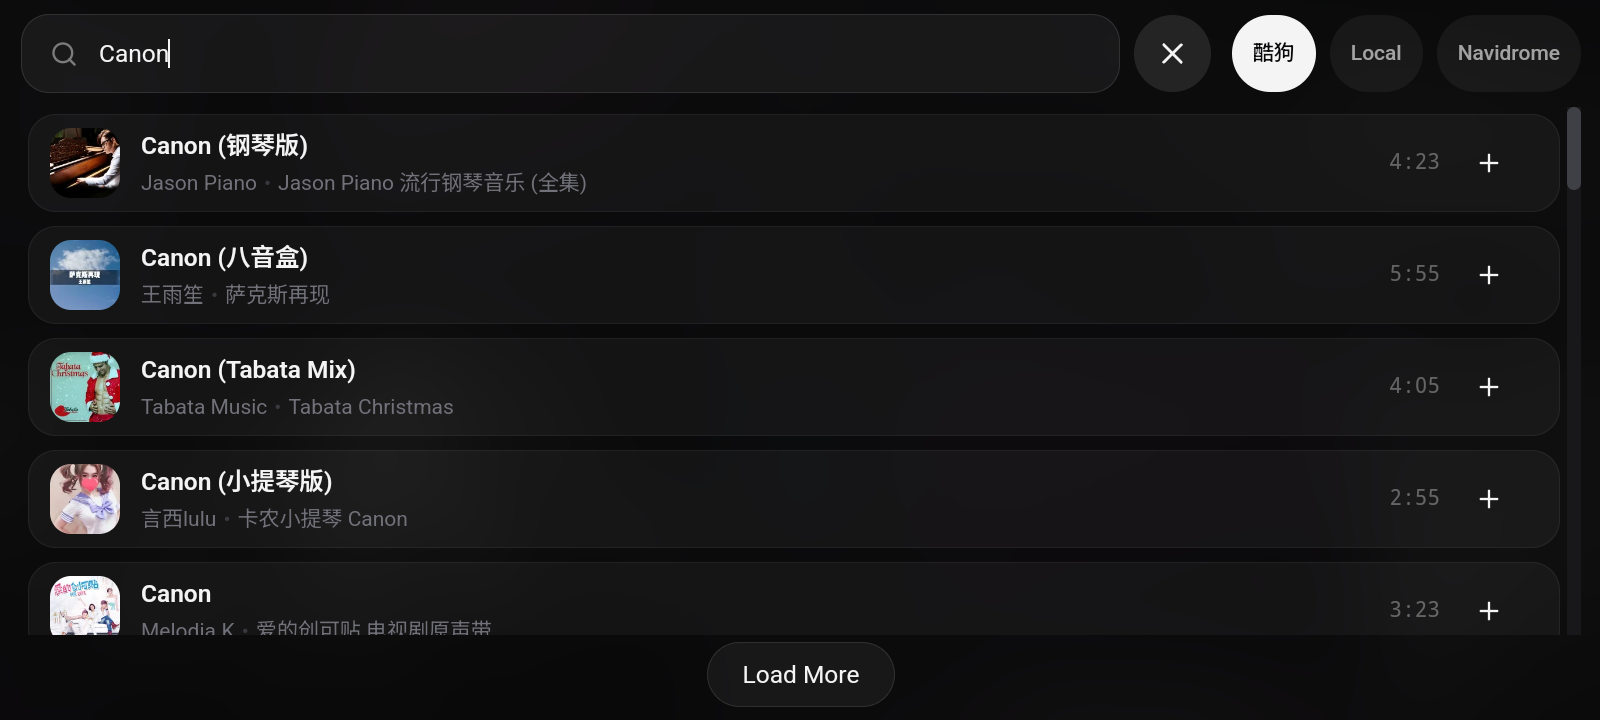
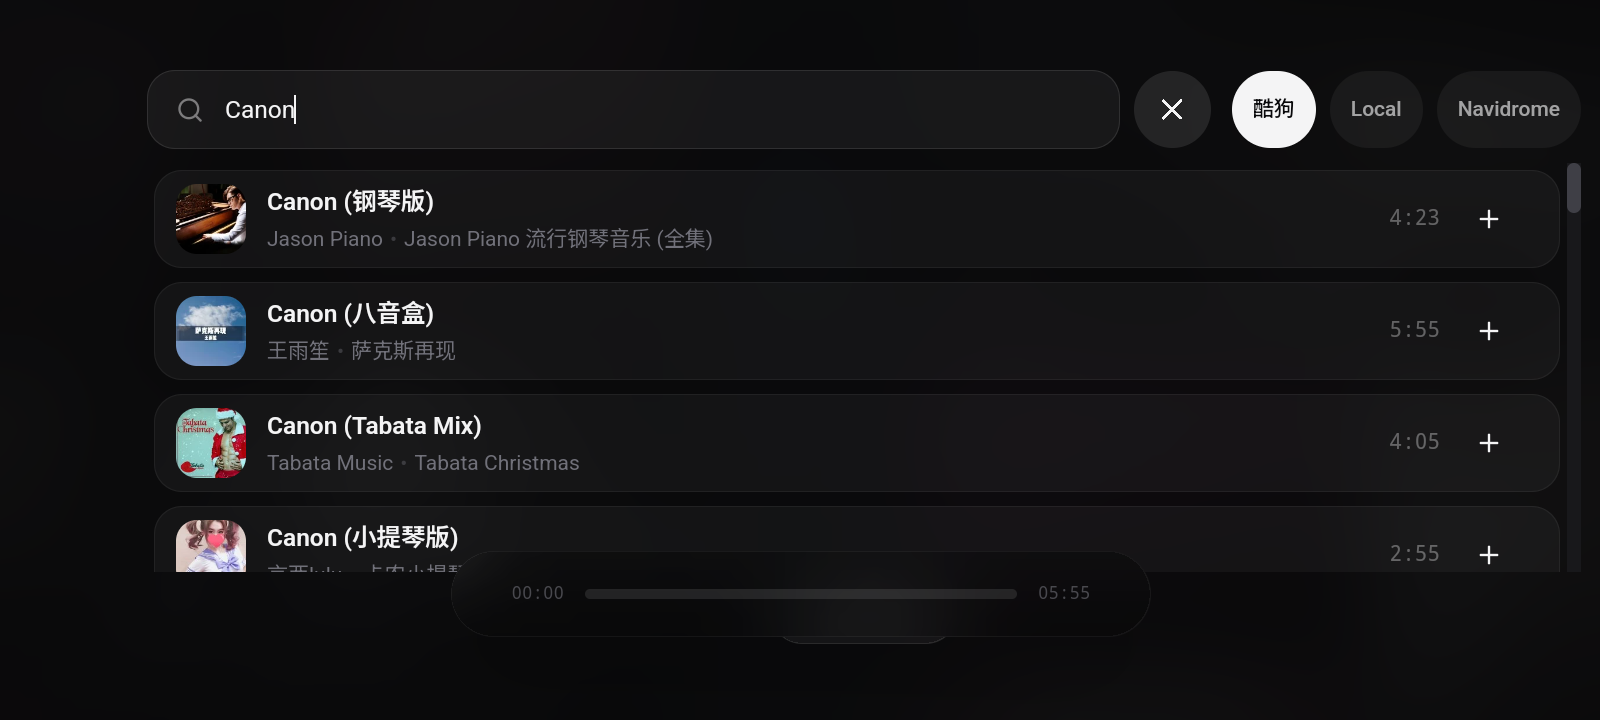
fix(android): extend scenes to screen edges and improve media notifications

diff --git a/src/components/ponder/PagePonderTouchButton.tsx b/src/components/ponder/PagePonderTouchButton.tsx
@@ -96,8 +96,12 @@ const PagePonderTouchButton: React.FC<PagePonderTouchButtonProps> = ({ theme, is
                 return;
             }
 
-            const inHotspot = event.clientY <= HOTSPOT_SIZE_PX
-                && event.clientX >= window.innerWidth - HOTSPOT_SIZE_PX;
+            const rootStyle = getComputedStyle(document.documentElement);
+            const safeTop = parseFloat(rootStyle.getPropertyValue('--folia-native-safe-top')) || 0;
+            const safeRight = parseFloat(rootStyle.getPropertyValue('--folia-native-safe-right')) || 0;
+            const inHotspot = event.clientY >= safeTop && event.clientY <= safeTop + HOTSPOT_SIZE_PX
+                && event.clientX >= window.innerWidth - safeRight - HOTSPOT_SIZE_PX
+                && event.clientX <= window.innerWidth - safeRight;
             if (!inHotspot) {
                 // 手指落在别处，上一面没用掉的旗就作废 —— 免得它留到下一次真正的点击上。
                 suppressNextClickRef.current = false;
@@ -132,7 +136,7 @@ const PagePonderTouchButton: React.FC<PagePonderTouchButtonProps> = ({ theme, is
             aria-label={t('ponder.openPage')}
             // 收起来之后不可点：留着可点的话，右上角会变成一块看不见却能按的地方。
             // 出来时淡入、从略小长到位；关了微动效就只淡入淡出。
-            className={`fixed right-5 top-5 z-[190] h-12 w-12 rounded-full transition-[opacity,transform] active:scale-95 ${
+            className={`android-ponder-button fixed right-5 top-5 z-[190] h-12 w-12 rounded-full transition-[opacity,transform] active:scale-95 ${
                 isRevealed ? 'pd-t-enter opacity-100' : `pd-t-base pointer-events-none opacity-0 ${calm ? '' : 'scale-[0.94]'}`
             }`}
             style={{ ...ponderLayerTokens(isDaylight, theme), ...ponderMotionTokens(calm) }}

diff --git a/src/index.css b/src/index.css
@@ -455,3 +455,29 @@ html[data-android="true"], html[data-android="true"] body {
 html[data-android="true"] * {
   overscroll-behavior: none;
 }
+
+/* Let the scene bleed to every edge; reserve insets only for controls, never for the root canvas. */
+html[data-android='true'] .android-player-controls {
+    margin-bottom: max(0px, calc(var(--folia-native-safe-bottom, 0px) - 16px));
+    width: calc(100vw - 32px - var(--folia-native-safe-left, 0px) - var(--folia-native-safe-right, 0px));
+}
+html[data-android='true'] .android-player-back,
+html[data-android='true'] .lattice-back {
+    top: calc(12px + var(--folia-native-safe-top, 0px));
+    left: calc(16px + var(--folia-native-safe-left, 0px));
+}
+html[data-android='true'] .bravais-seam-content {
+    top: var(--folia-native-safe-top, 0px);
+    bottom: var(--folia-native-safe-bottom, 0px);
+}
+html[data-android='true'] .search-workspace {
+    padding-top: calc(12px + var(--folia-native-safe-top, 0px));
+    padding-bottom: calc(12px + var(--folia-native-safe-bottom, 0px));
+    padding-left: calc(12px + var(--folia-native-safe-left, 0px));
+    padding-right: calc(12px + var(--folia-native-safe-right, 0px));
+}
+
+html[data-android='true'] .android-ponder-button {
+    top: calc(20px + var(--folia-native-safe-top, 0px));
+    right: calc(20px + var(--folia-native-safe-right, 0px));
+}

diff --git a/src/components/visualizer/VisualizerShell.tsx b/src/components/visualizer/VisualizerShell.tsx
@@ -235,7 +235,7 @@ const VisualizerShell = forwardRef<HTMLDivElement, VisualizerShellProps>(({
                         event.stopPropagation();
                         resolvedOnBack();
                     }}
-                    className="absolute top-6 left-6 z-30 h-10 w-10 rounded-full flex items-center justify-center transition-colors backdrop-blur-md bg-black/20 hover:bg-white/10 text-white/60 pointer-events-auto"
+                    className="android-player-back absolute top-6 left-6 z-30 h-10 w-10 rounded-full flex items-center justify-center transition-colors backdrop-blur-md bg-black/20 hover:bg-white/10 text-white/60 pointer-events-auto"
                     style={{ pointerEvents: isBackButtonVisible ? 'auto' : 'none' }}
                 >
                     <ChevronLeft size={20} />

diff --git a/src/components/FloatingPlayerControls.tsx b/src/components/FloatingPlayerControls.tsx
@@ -331,7 +331,7 @@ const FloatingPlayerControls: React.FC<FloatingPlayerControlsProps> = ({
                 所以挂在这一层不会干扰居中。
             */}
             <motion.div
-                className={`absolute left-1/2 -translate-x-1/2 z-60 w-full flex justify-center pointer-events-none
+                className={`android-player-controls absolute left-1/2 -translate-x-1/2 z-60 w-full flex justify-center pointer-events-none
                     ${currentView === 'home'
                         ? 'max-w-[calc(100vw-120px)] md:max-w-[min(calc(32rem_+_var(--folium-player-bar-extra,0px)),calc(100vw-120px))]'
                         : 'max-w-[min(calc(32rem_+_var(--folium-player-bar-extra,0px)),100vw)] px-4'}`}

diff --git a/index.html b/index.html
@@ -2,7 +2,7 @@
 <html lang="en">
   <head>
     <meta charset="UTF-8" />
-    <meta name="viewport" content="width=device-width, initial-scale=1.0" />
+    <meta name="viewport" content="width=device-width, initial-scale=1.0, viewport-fit=cover" />
     <meta name="referrer" content="no-referrer" />
     <meta name="description" content="一个动态歌词播放器，支持 AI 主题生成" />
     <meta name="theme-color" content="#09090b" />

diff --git a/packaging/android/android/app/src/main/java/top/izuna/folia/android/FoliaPlaybackService.java b/packaging/android/android/app/src/main/java/top/izuna/folia/android/FoliaPlaybackService.java
@@ -12,6 +12,8 @@ import android.content.IntentFilter;
 import android.graphics.Bitmap;
 import android.graphics.BitmapFactory;
 import android.media.AudioManager;
+import android.media.AudioAttributes;
+import android.util.Log;
 import android.media.MediaMetadata;
 import android.media.session.MediaSession;
 import android.media.session.PlaybackState;
@@ -26,7 +28,7 @@ import org.json.JSONObject;
 public class FoliaPlaybackService extends Service {
     private static final int NOTIFICATION = 731;
     private static final String CHANNEL = "folia-playback";
-    private static boolean running;
+    private static volatile boolean running;
     private MediaSession session;
     private PowerManager.WakeLock wakeLock;
     private boolean playing;
@@ -50,6 +52,9 @@ public class FoliaPlaybackService extends Service {
         wakeLock = ((PowerManager) getSystemService(POWER_SERVICE)).newWakeLock(PowerManager.PARTIAL_WAKE_LOCK, "Folia:Playback");
         wakeLock.setReferenceCounted(false);
         session = new MediaSession(this, "Folia");
+        session.setFlags(MediaSession.FLAG_HANDLES_MEDIA_BUTTONS | MediaSession.FLAG_HANDLES_TRANSPORT_CONTROLS);
+        session.setPlaybackToLocal(new AudioAttributes.Builder().setUsage(AudioAttributes.USAGE_MEDIA)
+            .setContentType(AudioAttributes.CONTENT_TYPE_MUSIC).build());
         session.setSessionActivity(openApp());
         session.setCallback(new MediaSession.Callback() {
             @Override public void onPlay() { command("play", 0); }
@@ -81,7 +86,7 @@ public class FoliaPlaybackService extends Service {
         return builder.setSmallIcon(R.drawable.ic_stat_playback)
             .setContentTitle(title).setContentText(artist).setSubText(album).setLargeIcon(cover)
             .setContentIntent(openApp()).setVisibility(Notification.VISIBILITY_PUBLIC)
-            .setOnlyAlertOnce(true).setShowWhen(false).setOngoing(playing)
+            .setOnlyAlertOnce(true).setShowWhen(false).setOngoing(playing).setCategory(Notification.CATEGORY_TRANSPORT)
             .addAction(action("previoustrack", android.R.drawable.ic_media_previous, 1))
             .addAction(action(playing ? "pause" : "play", playing ? android.R.drawable.ic_media_pause : android.R.drawable.ic_media_play, 2))
             .addAction(action("nexttrack", android.R.drawable.ic_media_next, 3))
@@ -123,7 +128,7 @@ public class FoliaPlaybackService extends Service {
                 if (foreground) { stopForeground(false); foreground = false; }
                 getSystemService(NotificationManager.class).notify(NOTIFICATION, notification());
             }
-        } catch (Exception error) { stopSelf(); }
+        } catch (Exception error) { Log.e("FoliaPlayback", "Could not publish media session", error); stopSelf(); }
         return START_NOT_STICKY;
     }
     @Override public void onTaskRemoved(Intent rootIntent) { command("pause", 0); stopSelf(); }

diff --git a/packaging/android/android/app/src/main/java/top/izuna/folia/android/FoliaPlaybackPlugin.java b/packaging/android/android/app/src/main/java/top/izuna/folia/android/FoliaPlaybackPlugin.java
@@ -1,6 +1,12 @@
 package top.izuna.folia.android;
 
 import android.content.Intent;
+import android.Manifest;
+import android.os.Build;
+import android.content.Context;
+import android.content.pm.PackageManager;
+import com.getcapacitor.annotation.Permission;
+import com.getcapacitor.annotation.PermissionCallback;
 import androidx.core.content.ContextCompat;
 import com.getcapacitor.JSObject;
 import com.getcapacitor.Plugin;
@@ -10,7 +16,7 @@ import com.getcapacitor.annotation.CapacitorPlugin;
 import java.lang.ref.WeakReference;
 
 // The native media session controls the same audio deck and queue as the application UI.
-@CapacitorPlugin(name = "FoliaPlayback")
+@CapacitorPlugin(name = "FoliaPlayback", permissions = { @Permission(alias = "playbackNotifications", strings = { Manifest.permission.POST_NOTIFICATIONS }) })
 public class FoliaPlaybackPlugin extends Plugin {
     private static WeakReference<FoliaPlaybackPlugin> active = new WeakReference<>(null);
     @Override public void load() { active = new WeakReference<>(this); }
@@ -38,9 +44,23 @@ public class FoliaPlaybackPlugin extends Plugin {
             // A paused track must not start a new background foreground service.
             if (playing) ContextCompat.startForegroundService(getContext(), intent);
             else if (FoliaPlaybackService.isRunning()) getContext().startService(intent);
+            // Ask once, while the app is visible, without making audio depend on the answer.
+            android.content.SharedPreferences preferences = getContext().getSharedPreferences("folia-playback", Context.MODE_PRIVATE);
+            if (playing && Build.VERSION.SDK_INT >= 33 && getBridge().getApp().isActive()
+                && ContextCompat.checkSelfPermission(getContext(), Manifest.permission.POST_NOTIFICATIONS) != PackageManager.PERMISSION_GRANTED
+                && !preferences.getBoolean("notificationPermissionRequested", false)) {
+                preferences.edit().putBoolean("notificationPermissionRequested", true).apply();
+                getActivity().runOnUiThread(() -> {
+                    try { requestPermissionForAlias("playbackNotifications", call, "notificationPermissionResult"); }
+                    catch (RuntimeException error) { call.resolve(); }
+                });
+                return;
+            }
             call.resolve();
         } catch (RuntimeException error) { call.reject("Native playback service unavailable", error); }
     }
+
+    @PermissionCallback private void notificationPermissionResult(PluginCall call) { call.resolve(); }
 
     @Override protected void handleOnDestroy() {
         if (active.get() == this) {

diff --git a/packaging/android/android/app/src/main/java/top/izuna/folia/android/MainActivity.java b/packaging/android/android/app/src/main/java/top/izuna/folia/android/MainActivity.java
@@ -39,9 +39,14 @@ public class MainActivity extends BridgeActivity {
             Insets safe = insets.getInsets(WindowInsetsCompat.Type.ime());
             if (view.getPaddingLeft() != safe.left || view.getPaddingTop() != safe.top || view.getPaddingRight() != safe.right || view.getPaddingBottom() != safe.bottom) view.setPadding(safe.left, safe.top, safe.right, safe.bottom);
             if (bridge != null) {
+                // The picture uses the whole window; only interactive overlays consume these safe distances.
                 Insets cutout = insets.getInsetsIgnoringVisibility(WindowInsetsCompat.Type.displayCutout());
+                Insets bars = insets.getInsetsIgnoringVisibility(WindowInsetsCompat.Type.systemBars());
+                Insets gestures = insets.getInsets(WindowInsetsCompat.Type.mandatorySystemGestures());
+                int top = Math.max(cutout.top, bars.top);
+                int bottom = Math.max(cutout.bottom, Math.max(bars.bottom, gestures.bottom));
                 float density = getResources().getDisplayMetrics().density;
-                bridge.getWebView().evaluateJavascript("document.documentElement.style.setProperty('--folia-native-safe-top','" + cutout.top / density + "px');document.documentElement.style.setProperty('--folia-native-safe-left','" + cutout.left / density + "px');document.documentElement.style.setProperty('--folia-native-safe-right','" + cutout.right / density + "px');void 0;", null);
+                bridge.getWebView().evaluateJavascript("document.documentElement.style.setProperty('--folia-native-safe-top','" + top / density + "px');document.documentElement.style.setProperty('--folia-native-safe-left','" + Math.max(cutout.left, bars.left) / density + "px');document.documentElement.style.setProperty('--folia-native-safe-right','" + Math.max(cutout.right, bars.right) / density + "px');document.documentElement.style.setProperty('--folia-native-safe-bottom','" + (safe.bottom > 0 ? 0 : bottom / density) + "px');void 0;", null);
             }
             return WindowInsetsCompat.CONSUMED;
         });

diff --git a/README.md b/README.md
@@ -2,7 +2,7 @@
 
 Folia Android 是面向手机和平板的 Folia 社区安卓移植。**最大的特点是手机独立运行：网易云、酷狗和 QQ 音乐 API 直接内置在 APK 中，无需自行部署服务器、保持电脑开机或填写 API 地址。** 安装后即可在应用内登录和使用在线音乐，并支持原生后台播放、通知栏与锁屏控制、沉浸全屏和系统返回导航。
 
-[**下载 Android APK · android.9**](https://github.com/hejunlin1755/folia-major-android/releases/tag/v0.7.21-android.9) · [安卓构建说明](packaging/android/README.md) · [上游 Folia](https://github.com/chthollyphile/folia-major)
+[**下载 Android APK · android.10**](https://github.com/hejunlin1755/folia-major-android/releases/tag/v0.7.21-android.10) · [安卓构建说明](packaging/android/README.md) · [上游 Folia](https://github.com/chthollyphile/folia-major)
 
 支持 Android 7 及以上、Android System WebView 120 及以上，安装包包含 ARM64 / ARMv7 / x86_64。在线听歌仍需要联网，会员和版权规则由音乐平台决定。
 
@@ -66,7 +66,7 @@ Folia是一个以全屏沉浸式歌词播放为核心的在线音乐播放器，
 ## 快速下载
 
 > [!TIP]
-> - **Android 安卓独立版**：[下载 APK](https://github.com/hejunlin1755/folia-major-android/releases/tag/v0.7.21-android.9)，支持手机内置音乐服务、后台播放、系统媒体控制与沉浸全屏。
+> - **Android 安卓独立版**：[下载 APK](https://github.com/hejunlin1755/folia-major-android/releases/tag/v0.7.21-android.10)，支持手机内置音乐服务、后台播放、系统媒体控制与沉浸全屏。
 > - **GitHub**：[Latest Release](https://github.com/chthollyphile/folia-major/releases/latest)，提供 Windows / macOS / Linux 全平台安装包。
 > - **网盘**：[夸克网盘](https://pan.quark.cn/s/6e4c6fa3bc6f) · [百度云](https://pan.baidu.com/s/1f0x3g-8PMcNCO-TJ5z1rPw?pwd=flia)（提取码 `flia`），适合国内网络，仅提供 Windows 与 Apple silicon 的正式版安装包。
 >

diff --git a/packaging/android/README.md b/packaging/android/README.md
@@ -61,3 +61,9 @@ bash gradlew assembleDebug
 `0.7.21-android.9` 验证：137 项播放 / 传输 / 返回导航 / 架构单元测试、4 项内置服务边界与酷狗授权链测试、TypeScript 检查和 Android APK / instrumentation 编译通过。Android 15 模拟器通过真实界面操作验证了《Canon（钢琴版）》与《Canon（八音盒）》的取流与进度推进、退到桌面和熄屏后继续推进、通知栏与锁屏的暂停 / 恢复、通知栏上一首 / 下一首与进度跳转，以及横屏搜索、沉浸全屏和逐级返回。模拟器运行时关闭了宿主音频输出，因此这些记录验证播放进度和控制链路，不代表已在此电脑上听辨音质。不同厂商设备的后台管理与系统媒体面板行为仍需继续验证。
 
 原生升级回归测试通过：在真实 WebView 中模拟旧安装摘要，退休 Workbox 页面缓存，确认保存的测试账号键与封面缓存不受影响。大缓存清理允许最多两分钟异步完成，避免清理结束后未被原生层确认。
+
+## 全屏与兼容环境
+
+`0.7.21-android.10` 使用 `viewport-fit=cover` 配合原生沉浸窗口，让背景和画面延伸至屏幕边缘。原生层仅将刘海、系统栏和手势距离传给交互控件，键盘出现时继续独立处理输入区域。Android 13+ 首次播放可申请通知权限，媒体通知声明传输分类及本地音乐音量路由。
+
+HarmonyOS 6 经卓易通 / 卓易通 Lite 运行 APK 时，Android 前台服务与 MediaSession 仍在兼容环境内。宿主后台运行和播控卡片依赖兼容工具支持；[卓易通官方 FAQ](https://www.droitong.com/CommonQues.html) 已列出音频通知不能显示播控卡片的情况。请更新工具，并在系统“设置 → 应用和元服务”中检查通知及后台运行权限。本 APK 的 Android 模拟器验证不能代表该鸿蒙兼容环境的实际支持情况。
